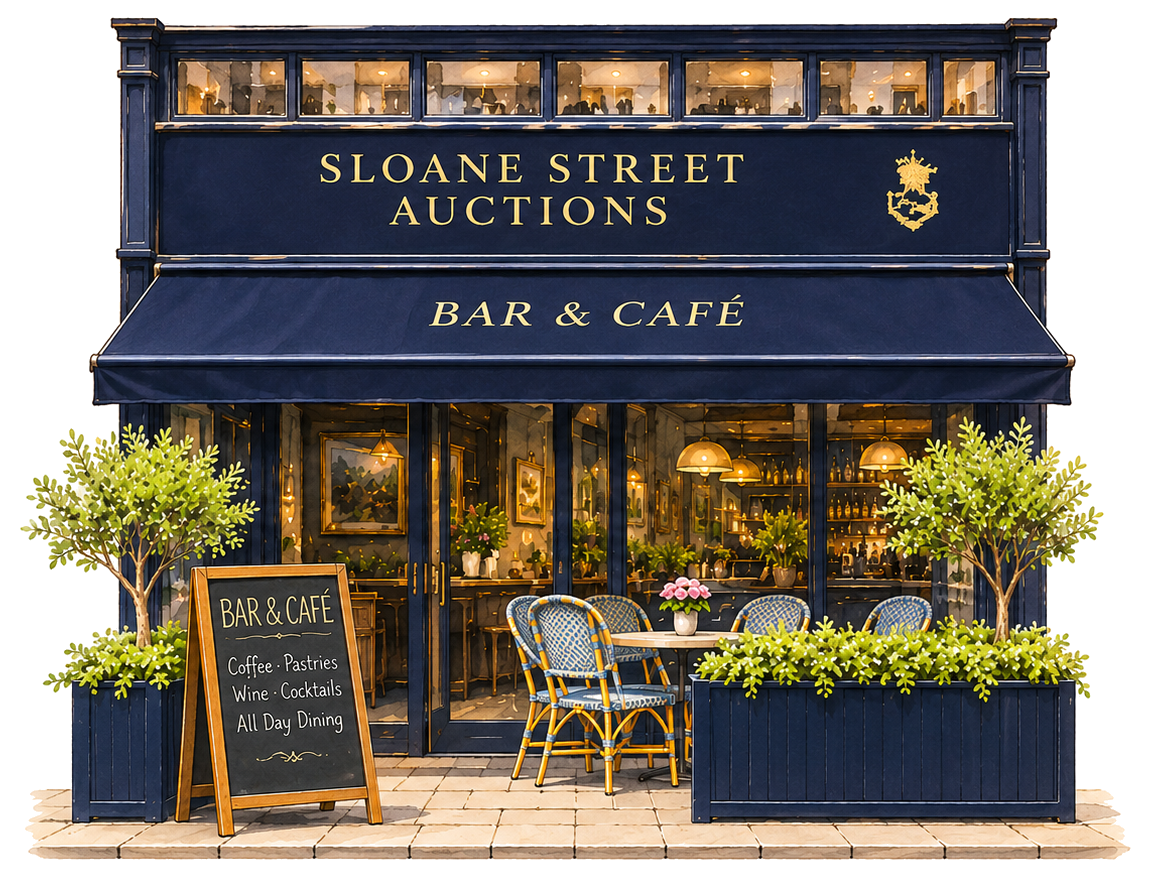
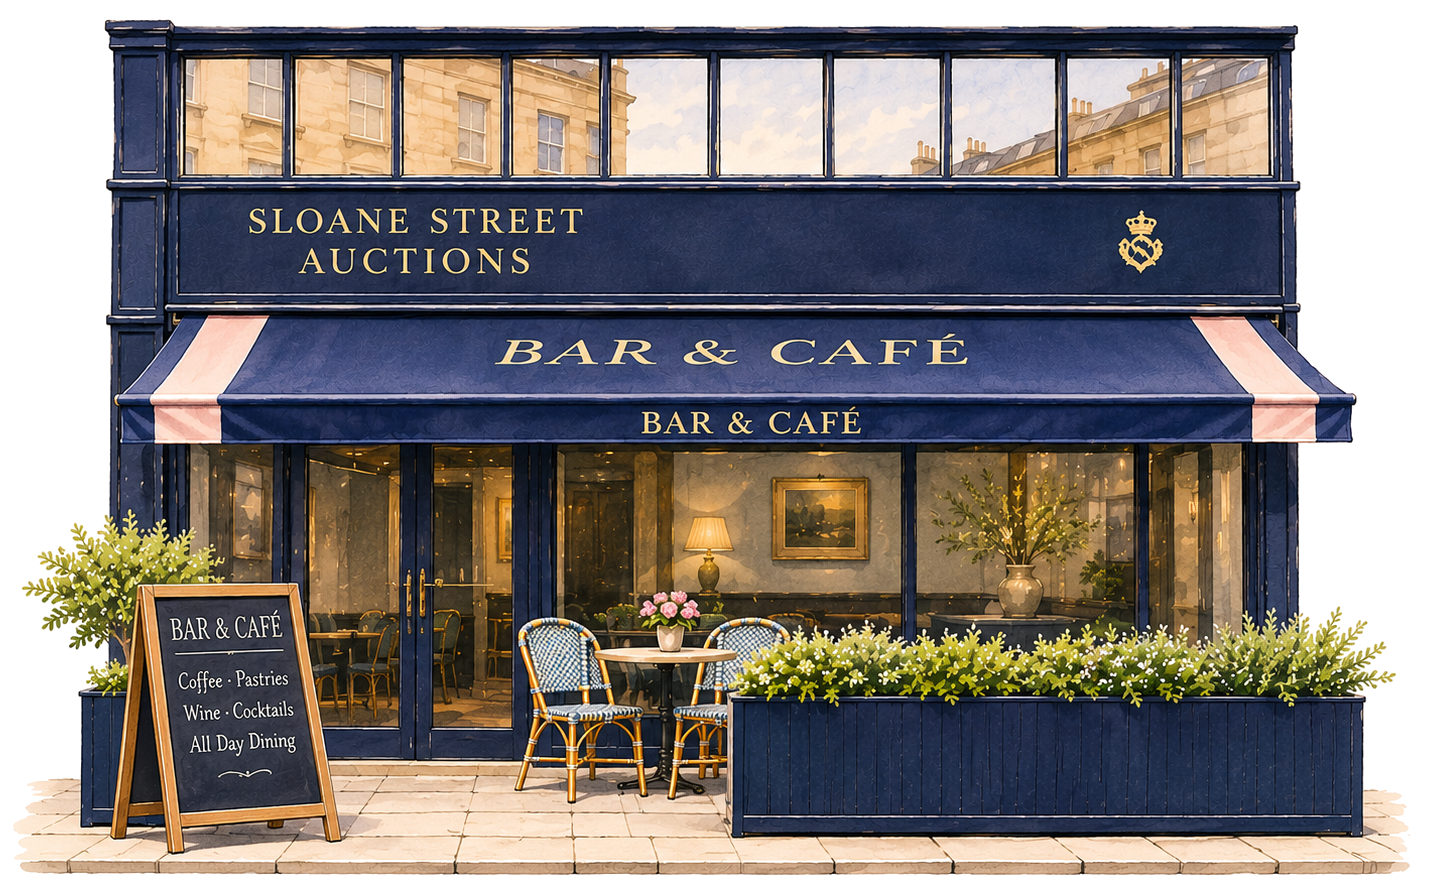
Bar & Cafe: new illustration (navy and pink awning)
Claude-Session: https://claude.ai/code/session_01BQAcxkyukxm1huG2AKUy4t

diff --git a/src/app/(site)/about/bar-cafe/page.tsx b/src/app/(site)/about/bar-cafe/page.tsx
@@ -35,7 +35,7 @@ export default function BarCafePage() {
         media={
           hasPhoto(hero.illustration) && (
             <div className="flex h-full items-center lg:absolute lg:inset-0">
-              <ObjectPhoto photo={hero.illustration} priority sizes="(min-width: 1024px) 50vw, 100vw" frameClassName="w-full aspect-[1.3]" />
+              <ObjectPhoto photo={hero.illustration} priority sizes="(min-width: 1024px) 50vw, 100vw" frameClassName="w-full aspect-[1.6]" />
             </div>
           )
         }
